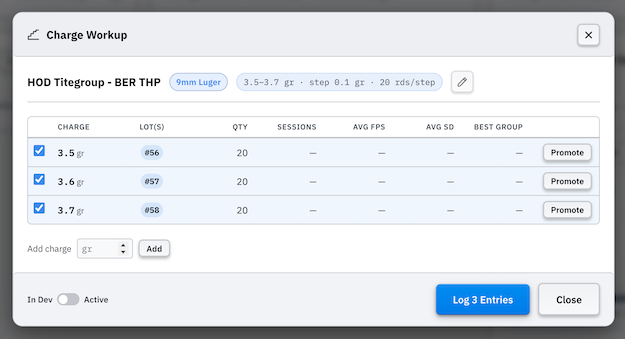
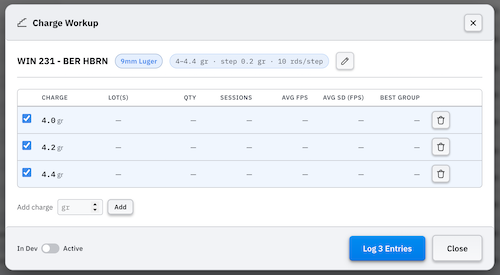
Updated user's wide with changes on version 1.17.23

Changed region(s): [[0.0, 0.0, 1.0, 0.9891], [0.36, 0.5236, 0.42, 0.5527]]

diff --git a/README.md b/README.md
@@ -1,4 +1,4 @@
-# Reloading Tracker 2.17.21: User Guide
+# Reloading Tracker 2.17.23: User Guide
 
 Reloading Tracker is your complete bench-to-range companion. It starts as a production log: define your loads, record every pressing session with a unique lot number, and print a label for every box on your shelf.
 
@@ -7,7 +7,7 @@ It grows with you from there. Keep one inventory of your components. Work up new
 If you also care about costs, the app covers that too. Compare your reloads with factory ammunition, track how close you are to paying off your equipment, and see a side-by-side cost breakdown for any mix of loads. This part is optional; plenty of reloaders just want the log and the data.
 
 
-> **DOWNLOAD:** A desktop version is available from the releases page: [**latest version**](https://github.com/fmalpartida/reloading-cost-calculator/releases/tag/v2.17.21). All previous versions are available [here](https://github.com/fmalpartida/reloading-cost-calculator/releases).
+> **DOWNLOAD:** A desktop version is available from the releases page: [**latest version**](https://github.com/fmalpartida/reloading-cost-calculator/releases/tag/v2.17.23). All previous versions are available [here](https://github.com/fmalpartida/reloading-cost-calculator/releases).
 
 
 Want to try it out first?
@@ -400,15 +400,17 @@ Each ladder step is a row, whether it's still planned or already fired.
 | **Avg fps** | Average muzzle velocity across all sessions for this charge |
 | **Avg SD** | Average standard deviation |
 | **Best Group** | Best (smallest) group size recorded at this charge |
-| **Promote** | Button to promote this charge as the final load (only shown when data exists and the load is In Development) |
+| **Promote** | Promotes this charge as the final load. Shown when the charge has data and the load is In Development. |
 
 Rows with data are lightly tinted. The promoted row is green.
+
+To drop a charge you haven't loaded yet, click its 🗑 **Remove charge** button. The button only shows on charges with no lots, while the load is In Development. Charges you've already loaded stay, because their lots live in the Journal.
 
 ![Screenshot: Charge Workup panel, charge ladder table with planned and fired rows, promoted row highlighted](./images/workup-panel-table.png)
 
 **Logging entries from the workup panel**
 
-All steps are checked by default. Uncheck any you won't press this time, then click **Log N Entries**. The app creates one Journal entry per checked charge, dated today, using the rounds per step and the current lot numbers of the load's linked components.
+Charges you haven't loaded yet are checked. Charges that already have a lot start unchecked; check one to press another lot. Uncheck any you won't press this time, then click **Log N Entries**. The app creates one Journal entry per checked charge, dated today, using the rounds per step and the current lot numbers of the load's linked components.
 
 > You can also add a **one-off charge** outside the ladder: type it in the *Add charge* field below the table and click **Add**. The new row is checked for the next batch log; no journal entry is written yet.
 
@@ -1093,7 +1095,9 @@ The panel has four headings: **Units** (measurement system, angular unit, click 
 
 Choose **+ Impact** in the toolbar, then click each bullet hole. Each click places a numbered marker, in the order you place them.
 
-To move a marker, drag it. This doesn't work while the Pan tool is on, because dragging then moves the image. To remove a marker, right-click it.
+To move a marker, drag it. The statistics update when you let go. Dragging doesn't work while the Pan tool is on, because it moves the image instead.
+
+To remove a marker, right-click it or tap it with two fingers on a trackpad. You can also click it to select it, then press **Delete** or **Backspace**.
 
 **Placing shots automatically**
 
@@ -1236,7 +1240,7 @@ Above the tabs, a small table lists every group side by side: shots, extreme spr
 
 #### 7.1.7 Linking to a Range Session
 
-In the **Configuration** sidebar, the **Linked session** field (under **Range session**) links this target to a range session. Click it to search your sessions by date, firearm, distance, or lot number.
+In the **Configuration** sidebar, the **Linked session** field (under **Range session**) links this target to a range session. Click it to search your sessions by date, firearm, distance, or lot number. Each session also shows the ammo, its charge, and the date on a second line. Search matches that line too.
 
 Once linked:
 - An arrow button next to the session takes you to it in the Range Log.
